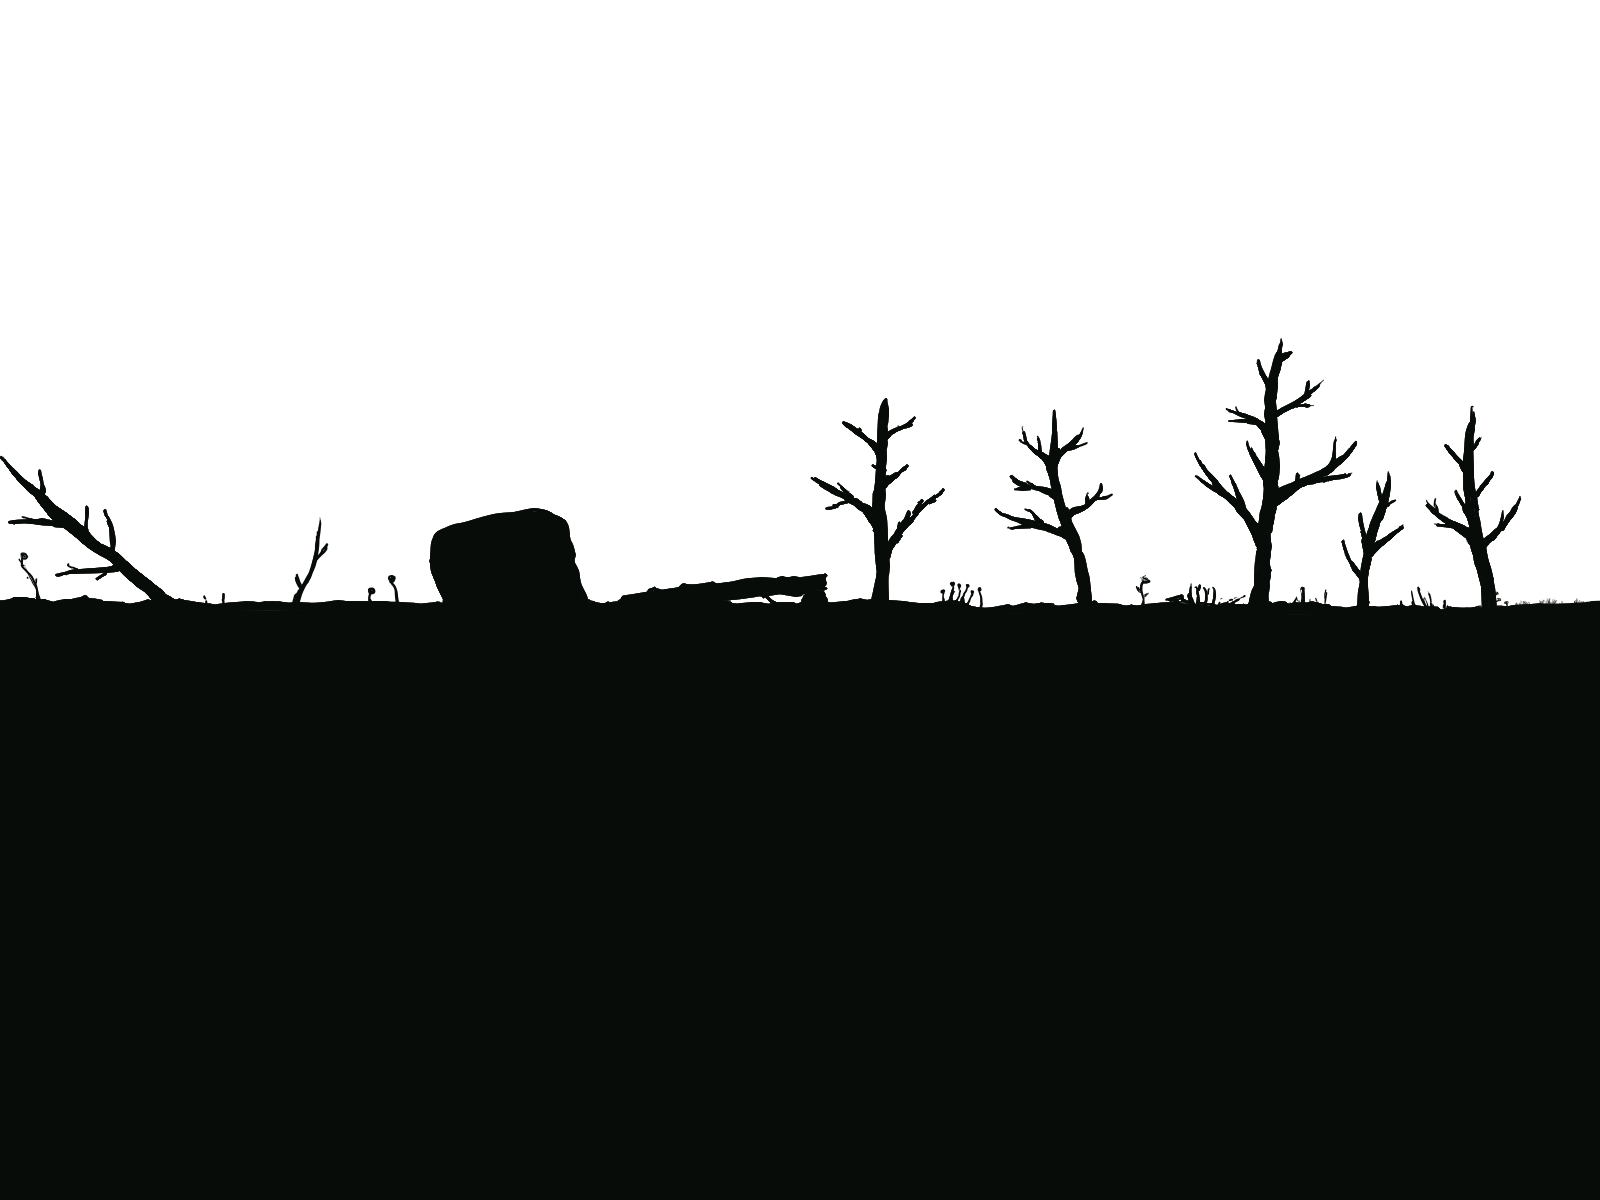
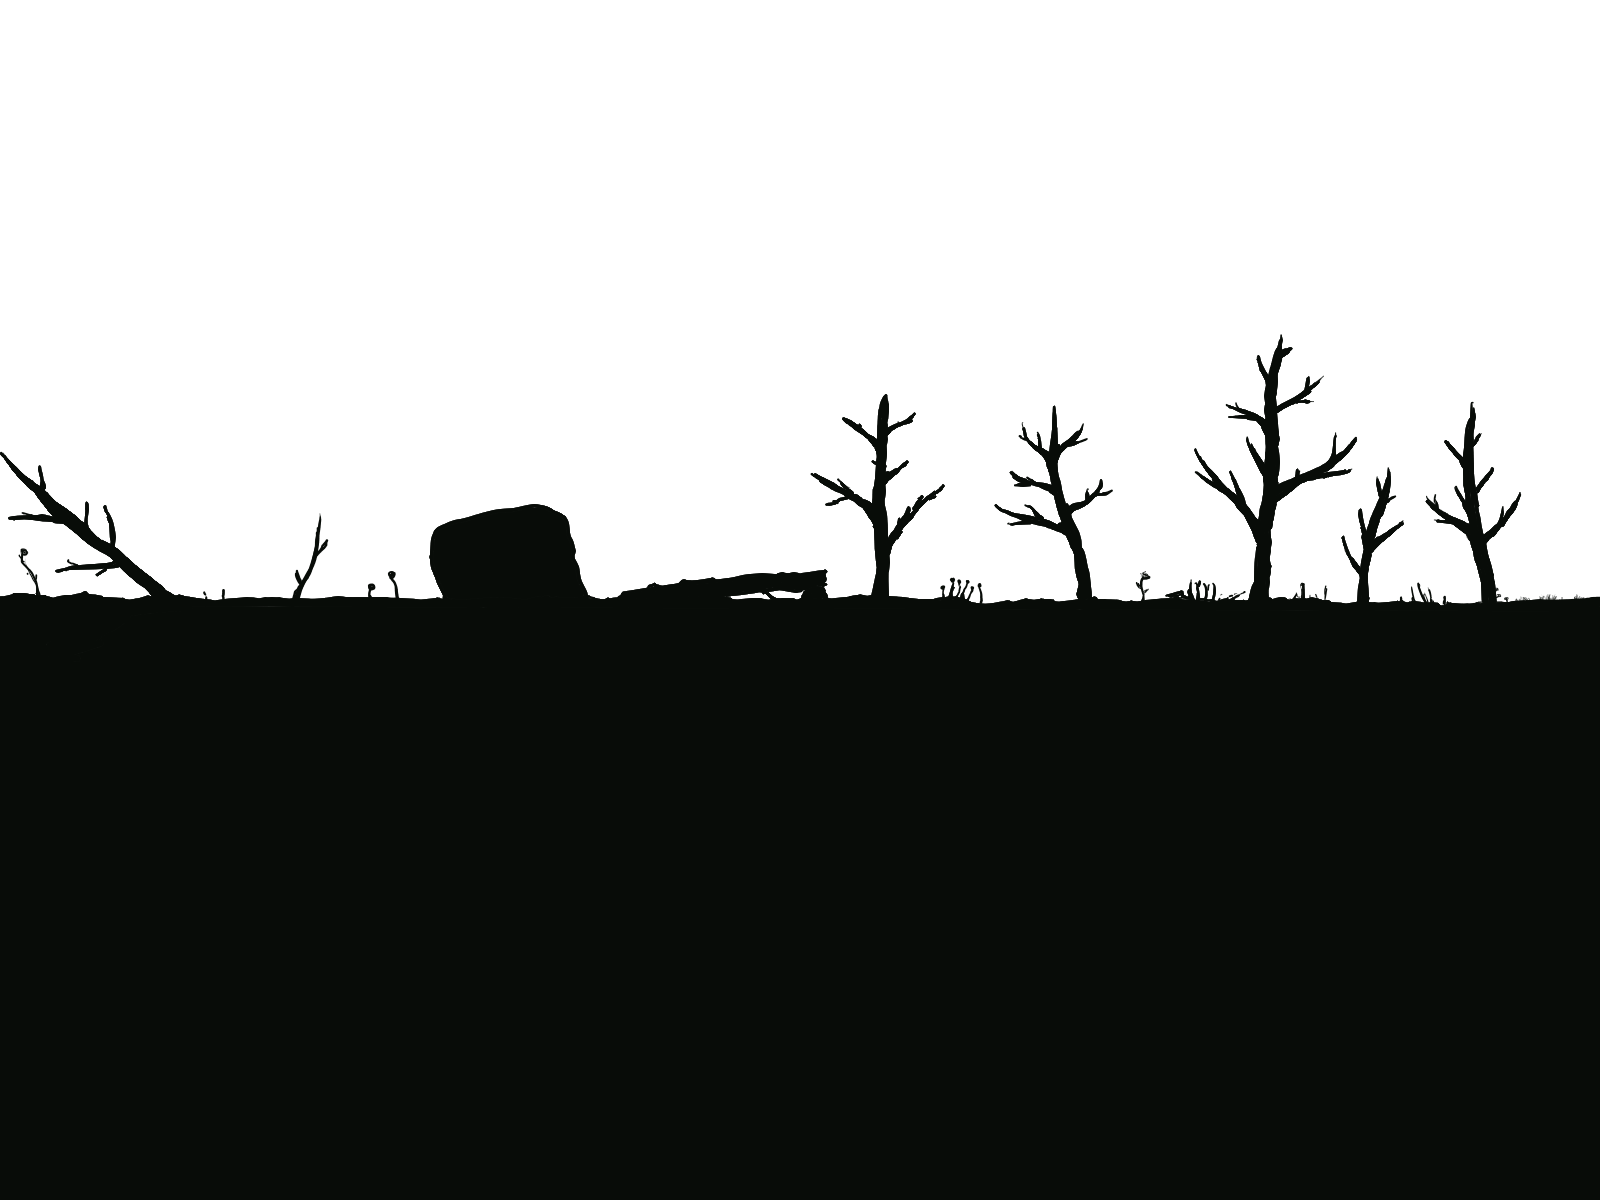
Add horizon point

diff --git a/src/game/systems/backgroundSystem.ts b/src/game/systems/backgroundSystem.ts
@@ -1,19 +1,19 @@
 import { Family, FamilyBuilder } from '@core/ecs/family'
 import { dependsOn, System } from '@core/ecs/system'
 import { World } from '@core/ecs/world'
-import { Vec2 } from '@core/math/vec2'
 import { TilingSprite } from 'pixi.js'
 
 export default class BackgroundSystem extends System {
   private backgroundFamily: Family
   private cameraFamily: Family
-  private cameraStartPosition?: Vec2
+  private horizonFamily: Family
 
   public constructor(world: World) {
     super(world)
 
     this.backgroundFamily = new FamilyBuilder(world).include('Background').build()
     this.cameraFamily = new FamilyBuilder(world).include('Camera').build()
+    this.horizonFamily = new FamilyBuilder(world).include('Horizon').build()
   }
 
   @dependsOn({
@@ -22,20 +22,22 @@ export default class BackgroundSystem extends System {
   })
   public update(): void {
     for (const camera of this.cameraFamily.entityIterator) {
-      const cameraPosition = camera.getComponent('Position')
-      if (!this.cameraStartPosition) this.cameraStartPosition = cameraPosition.copy()
+      for (const horizon of this.horizonFamily.entityIterator) {
+        const cameraPosition = camera.getComponent('Position')
+        const horizonPosition = horizon.getComponent('Position')
 
-      const cameraDiff = cameraPosition.sub(this.cameraStartPosition)
+        const cameraDiff = cameraPosition.sub(horizonPosition)
 
-      for (const background of this.backgroundFamily.entityIterator) {
-        const bgComponent = background.getComponent('Background')
-        const draw = background.getComponent('Draw')
-        const [bgSprite] = draw.children as TilingSprite[]
-        bgSprite.position.set(cameraPosition.x, cameraPosition.y)
-        bgSprite.tilePosition.set(
-          -cameraDiff.x * bgComponent.scrollSpeed.x,
-          -cameraDiff.y * bgComponent.scrollSpeed.y
-        )
+        for (const background of this.backgroundFamily.entityIterator) {
+          const bgComponent = background.getComponent('Background')
+          const draw = background.getComponent('Draw')
+          const [bgSprite] = draw.children as TilingSprite[]
+          bgSprite.position.set(cameraPosition.x, cameraPosition.y)
+          bgSprite.tilePosition.set(
+            -cameraDiff.x * bgComponent.scrollSpeed.x,
+            -cameraDiff.y * bgComponent.scrollSpeed.y
+          )
+        }
       }
     }
   }

diff --git a/src/game/map/objectLayerFactory.ts b/src/game/map/objectLayerFactory.ts
@@ -1,6 +1,7 @@
 import { World } from '@core/ecs/world'
 import { AirFactory } from '@game/entities/object/airFactory'
 import { AirGeyserFactory } from '@game/entities/object/airGeyserFactory'
+import { BackgroundFactory } from '@game/entities/object/backgroundFactory'
 import { EquipmentTileFactory } from '@game/entities/object/equipmentTileFactory'
 import { EventSensorFactory } from '@game/entities/object/eventSensorFactory'
 import { ObjectEntityFactory } from '@game/entities/object/objectEntityFactory'
@@ -18,10 +19,12 @@ export class ObjectLayerFactory {
       airGeyser: AirGeyserFactory,
       sensor: EventSensorFactory,
       equipment: EquipmentTileFactory,
+      background: BackgroundFactory,
     }
   }
 
   public build(builder: MapBuilder, layer: ObjectLayer): void {
+    console.log(layer.name)
     for (const object of layer.objects) {
       let spawnerID: number | undefined
       switch (layer.name) {

diff --git a/src/game/entities/object/backgroundFactory.ts b/src/game/entities/object/backgroundFactory.ts
@@ -1,0 +1,26 @@
+import { Entity } from '@core/ecs/entity'
+import { World } from '@core/ecs/world'
+import { HorizonComponent } from '@game/components/horizonComponent'
+import { MapObject } from '@game/map/mapBuilder'
+import { ObjectEntityFactory } from './objectEntityFactory'
+
+export class BackgroundFactory extends ObjectEntityFactory {
+  public constructor(name: string, object: MapObject, world: World) {
+    super(
+      name,
+      {
+        ...object,
+        width: 0,
+        height: 0,
+      },
+      world
+    )
+  }
+
+  public create(): Entity {
+    const entity = super.create()
+    entity.addComponent('Horizon', new HorizonComponent())
+
+    return entity
+  }
+}

diff --git a/src/core/ecs/component.ts b/src/core/ecs/component.ts
@@ -21,6 +21,7 @@ import { StaticComponent } from '@game/components/staticComponent'
 import { EquipmentComponent } from '@game/components/equipmentComponent'
 import { ButtonComponent } from '@game/components/buttonComponent'
 import { BackgroundComponent } from '@game/components/backgroundComponent'
+import { HorizonComponent } from '@game/components/horizonComponent'
 
 export interface ComponentMap {
   Position: PositionComponent
@@ -46,6 +47,7 @@ export interface ComponentMap {
   Equipment: EquipmentComponent
   Button: ButtonComponent
   Background: BackgroundComponent
+  Horizon: HorizonComponent
 }
 
 export type ComponentName = keyof ComponentMap

diff --git a/src/game/map/mapBuilder.ts b/src/game/map/mapBuilder.ts
@@ -95,6 +95,7 @@ export class MapBuilder {
         case 'equipment':
         case 'airGeyser':
         case 'player':
+        case 'background':
           objectLayerFactory.build(this, layer as ObjectLayer)
           break
       }

diff --git a/src/game/components/horizonComponent.ts b/src/game/components/horizonComponent.ts
@@ -1,0 +1,1 @@
+export class HorizonComponent {}
